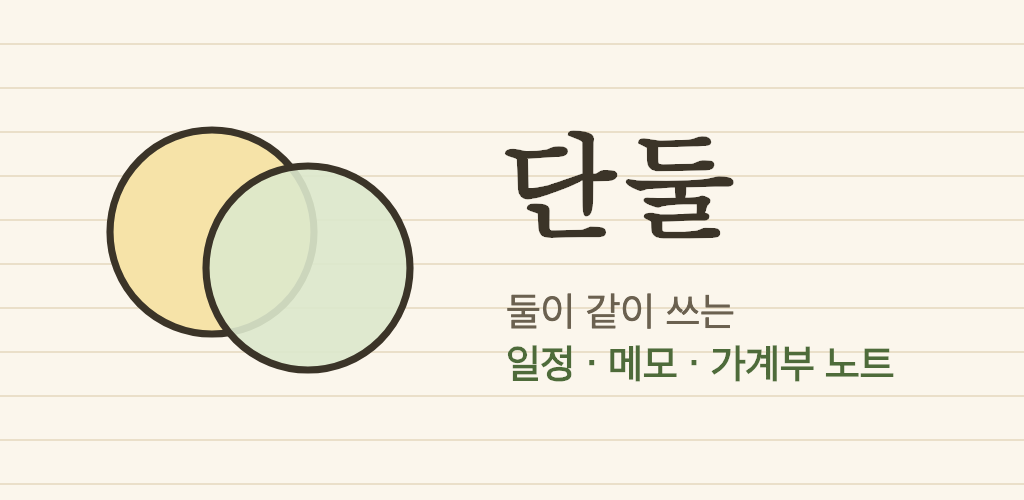
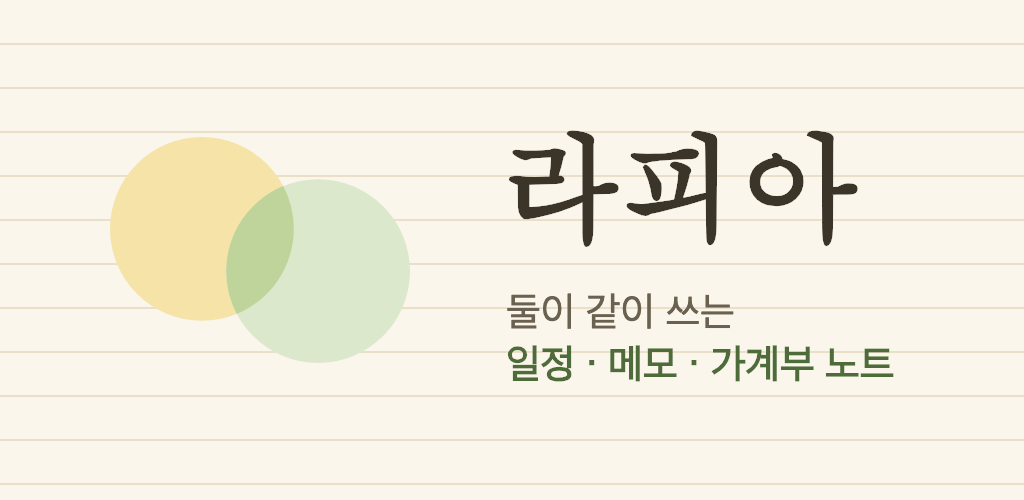
Invite page: 라피아 name, tester steps, honest iPhone message
- Title, heading, link preview image and logo use the 라피아 name and
  the current mark (two circles, no outline).
- While the app is in closed testing, show the two steps a partner needs
  before Play lets them install: join the lapia-testers group, then opt
  in to the test. When the app is not installed, the automatic open
  comes back to this page instead of a Play page that says the app
  cannot be found. Set TESTING to false at public launch.
- iPhone: say the iPhone app is not ready instead of asking to enter the
  code in an app that does not exist, and point to Threads for news.

Claude-Session: https://claude.ai/code/session_01AnaW4ifHkT6eKHnJPKRnyV

Changed region(s): [[0.0938, 0.24, 0.4062, 0.75], [0.5, 0.24, 0.8438, 0.51]]

diff --git a/i/index.html b/i/index.html
@@ -3,10 +3,10 @@
 <head>
 <meta charset="utf-8">
 <meta name="viewport" content="width=device-width,initial-scale=1">
-<title>단둘에 초대받았어요</title>
+<title>라피아에 초대받았어요</title>
 <meta name="description" content="딱 두 사람이 함께 쓰는 일정·메모·가계부">
 <meta property="og:type" content="website">
-<meta property="og:title" content="단둘에 초대받았어요">
+<meta property="og:title" content="라피아에 초대받았어요">
 <meta property="og:description" content="딱 두 사람이 함께 쓰는 일정·메모·가계부">
 <meta property="og:image" content="https://devwelchis-cpu.github.io/i/og.png">
 <meta property="og:image:width" content="1024">
@@ -18,7 +18,7 @@
 :root{--paper:#FBF6EC;--card:#FFFDF8;--ink:#3B3428;--sub:#6B6150;--line:#DCCFB4;--rule:#EADFC9;--btn:#C9DDB5;--btn-line:#7FA35B;--btn-ink:#2F4424;--deep:#4E6B3A}
 @media (prefers-color-scheme:dark){:root{--paper:#1F1C17;--card:#2A261F;--ink:#EDE6D6;--sub:#B5AC9A;--line:#4A4336;--rule:#2C2821;--btn:#3E5530;--btn-line:#7FA35B;--btn-ink:#E6F0DA;--deep:#A9C98C}}
 *{box-sizing:border-box}
-body{margin:0;min-height:100vh;background:var(--paper);background-image:repeating-linear-gradient(to bottom,transparent 0,transparent 35px,var(--rule) 35px,var(--rule) 36px);color:var(--ink);font-family:"Gowun Dodum",-apple-system,"Apple SD Gothic Neo","Noto Sans KR",sans-serif;line-height:1.6}
+body{margin:0;min-height:100vh;background:var(--paper);background-image:repeating-linear-gradient(to bottom,transparent 0,transparent 35px,var(--rule) 35px,var(--rule) 36px);color:var(--ink);word-break:keep-all;font-family:"Gowun Dodum",-apple-system,"Apple SD Gothic Neo","Noto Sans KR",sans-serif;line-height:1.6}
 main{max-width:420px;margin:0 auto;padding:56px 16px 48px;text-align:center}
 h1{font-family:"Gowun Batang",serif;font-size:28px;line-height:1.35;margin:14px 0 10px}
 .sub{color:var(--sub);font-size:15px;margin:0}
@@ -32,30 +32,59 @@ a{color:var(--deep)}
 .copy{min-height:44px;padding:0 16px;border-radius:22px;background:none;border:1.5px solid var(--btn-line);color:var(--btn-ink);font:inherit;font-size:14px;cursor:pointer}
 @media (prefers-color-scheme:dark){.copy{color:var(--ink)}}
 .hint{margin-top:6px;font-size:12px;color:var(--sub)}
+/* 비공개 테스트 동안: 앱을 받기 전 두 단계 */
+.steps{margin-top:28px;padding:16px;background:var(--card);border:1px solid var(--line);border-radius:10px;text-align:left}
+.steps>small{display:block;color:var(--sub);font-size:13px}
+.steps ol{list-style:none;margin:4px 0 0;padding:0}
+.steps li{display:flex;gap:12px;padding:12px 0;border-top:1px dashed var(--line)}
+.steps li:first-child{border-top:0}
+.num{flex:none;width:26px;height:26px;margin-top:1px;border-radius:50%;background:var(--btn);border:1.5px solid var(--btn-line);color:var(--btn-ink);display:flex;align-items:center;justify-content:center;font-size:14px}
+.steps b{display:block;font-size:16px;font-weight:700}
+.steps li small{display:block;color:var(--sub);font-size:13px;margin-top:2px}
+.step{display:inline-flex;align-items:center;min-height:44px;margin-top:8px;padding:0 16px;border-radius:22px;border:1.5px solid var(--btn-line);color:var(--btn-ink);text-decoration:none;font-size:14px}
+@media (prefers-color-scheme:dark){.step{color:var(--ink)}}
 [hidden]{display:none!important}
 </style>
 </head>
 <body>
 <main>
-<svg width="96" height="78" viewBox="0 0 86 70" aria-hidden="true"><circle cx="32" cy="32" r="24" fill="#F6E3A8" stroke="#3B3428" stroke-width="3"/><circle cx="54" cy="40" r="24" fill="#DCE8CC" fill-opacity="0.85" stroke="#3B3428" stroke-width="3"/></svg>
-<h1>단둘에<br>초대받았어요</h1>
+<svg width="96" height="72" viewBox="14.09 22.94 71.82 54.12" aria-hidden="true"><defs><clipPath id="mark-a"><circle cx="36.09" cy="44.94" r="22"/></clipPath></defs><circle cx="36.09" cy="44.94" r="22" fill="#F6E3A8"/><circle cx="63.91" cy="55.06" r="22" fill="#DCE8CC"/><circle cx="63.91" cy="55.06" r="22" fill="#BFD49A" clip-path="url(#mark-a)"/></svg>
+<h1>라피아에<br>초대받았어요</h1>
 <p class="sub" id="lead">앱을 받고 로그인하면<br>보낸 사람과 바로 연결돼요</p>
+
+<div class="steps" id="steps" hidden>
+<small>지금은 테스트 기간이라, 앱을 받기 전에 두 단계가 더 있어요</small>
+<ol>
+<li><span class="num">1</span><div><b>테스터 그룹 가입</b><small>휴대폰 Play 스토어와 같은 Google 계정으로 가입해 주세요.</small><a class="step" href="https://groups.google.com/g/lapia-testers" target="_blank" rel="noopener">그룹 가입하기</a></div></li>
+<li><span class="num">2</span><div><b>테스트 참여</b><small>같은 계정으로 '테스터 되기'를 눌러 주세요.</small><a class="step" href="https://play.google.com/apps/testing/com.dandul.dandul" target="_blank" rel="noopener">테스트 참여하기</a></div></li>
+<li><span class="num">3</span><div><b>앱 받고 참여</b><small>이 페이지로 돌아와 아래 버튼으로 받으면, 설치 뒤 바로 연결돼요.</small></div></li>
+</ol>
+</div>
 
 <a class="btn" id="get" href="https://play.google.com/store/apps/details?id=com.dandul.dandul">앱 받고 참여하기</a>
 <p class="alt" id="open-line">이미 설치했다면 <a id="open" href="#">앱에서 열기</a></p>
-<p class="alt" id="ios" hidden>iPhone 앱은 준비 중이에요.<br>Android 휴대폰에서 이 링크를 열어 주세요.</p>
+<div id="ios" hidden>
+<p class="alt">Android 휴대폰이 있다면<br>그 휴대폰에서 이 링크를 열어 주세요.</p>
+<p class="alt">아이폰 앱 소식은 <a href="https://www.threads.com/@lapia_dev" target="_blank" rel="noopener">스레드 @lapia_dev</a>에서 알려 드려요.</p>
+</div>
 
 <div class="card" id="code-card" hidden>
-<small>자동으로 안 될 때</small>
+<small id="code-label">자동으로 안 될 때</small>
 <div class="row"><span>초대코드</span><span class="code" id="code"></span><button class="copy" id="copy" type="button">복사</button></div>
 <div class="hint">앱의 "초대코드로 참여"에 적어 주세요</div>
 </div>
 </main>
 <script>
 (function () {
+  // 비공개 테스트 동안만 true: 테스터 그룹 가입·테스트 참여 단계를 보여 준다.
+  // 공개 출시하면 false 로 바꾼다 (그러면 예전처럼 바로 Play 스토어로).
+  var TESTING = true;
+
   var pkg = 'com.dandul.dandul';
   var m = /[?&]c=([0-9A-Za-z]{6})(?:&|$)/.exec(location.search);
   var code = m ? m[1].toUpperCase() : null;
+  // 앱 열기를 해 봤는데 앱이 없어서 이 페이지로 돌아온 경우
+  var noapp = /[?&]noapp=1(?:&|$)/.test(location.search);
   var ua = navigator.userAgent || '';
   var android = /Android/i.test(ua);
   var ios = /iPhone|iPad|iPod/i.test(ua);
@@ -63,15 +92,17 @@ a{color:var(--deep)}
   // Play 스토어: 초대코드를 설치 정보(referrer)에 실어 보낸다 → 앱이 설치 후 처음 한 번 읽는다
   var store = 'https://play.google.com/store/apps/details?id=' + pkg +
     (code ? '&referrer=' + encodeURIComponent('invite=' + code) : '');
-  // 앱이 있으면 앱을, 없으면 위 Play 주소를 연다 (같은 초대 주소를 앱에 넘김)
-  var intent = 'intent://devwelchis-cpu.github.io/i/' + (code ? '?c=' + code : '') +
-    '#Intent;scheme=https;package=' + pkg +
-    ';S.browser_fallback_url=' + encodeURIComponent(store) + ';end';
+  // 앱이 있으면 앱을, 없으면 fallback 을 연다 (같은 초대 주소를 앱에 넘김)
+  function intent(fallback) {
+    return 'intent://devwelchis-cpu.github.io/i/' + (code ? '?c=' + code : '') +
+      '#Intent;scheme=https;package=' + pkg +
+      ';S.browser_fallback_url=' + encodeURIComponent(fallback) + ';end';
+  }
 
   var get = document.getElementById('get');
   var open = document.getElementById('open');
-  get.href = android ? intent : store;
-  open.href = android ? intent : store;
+  get.href = android ? intent(store) : store;
+  open.href = android ? intent(store) : store;
 
   if (code) {
     document.getElementById('code').textContent = code;
@@ -91,13 +122,23 @@ a{color:var(--deep)}
   }
 
   if (ios) {
+    // 아이폰 앱이 없으니 '앱에 적으면 연결돼요'라고 하지 않는다
     get.hidden = true;
     document.getElementById('open-line').hidden = true;
     document.getElementById('ios').hidden = false;
-    document.getElementById('lead').innerHTML = '아래 초대코드를 앱에 적으면<br>보낸 사람과 연결돼요';
-  } else if (android && code) {
-    // 메신저 안 브라우저처럼 앱 링크가 바로 안 열린 경우: 열리자마자 한 번 시도
-    location.href = intent;
+    document.getElementById('lead').innerHTML = '아이폰 앱은 아직<br>준비 중이에요';
+    document.getElementById('code-label').textContent = 'Android 휴대폰에서 직접 적을 때';
+    return;
+  }
+
+  if (TESTING) document.getElementById('steps').hidden = false;
+
+  if (android && code && !noapp) {
+    // 메신저 안 브라우저처럼 앱 링크가 바로 안 열린 경우: 열리자마자 한 번 시도.
+    // 테스트 동안에는 앱이 없을 때 Play 대신 이 페이지(단계 안내)로 돌아온다 —
+    // 테스터가 아니면 Play 에서 앱을 찾을 수 없다고 나오기 때문.
+    var back = location.origin + location.pathname + '?c=' + code + '&noapp=1';
+    location.href = intent(TESTING ? back : store);
   }
 })();
 </script>
